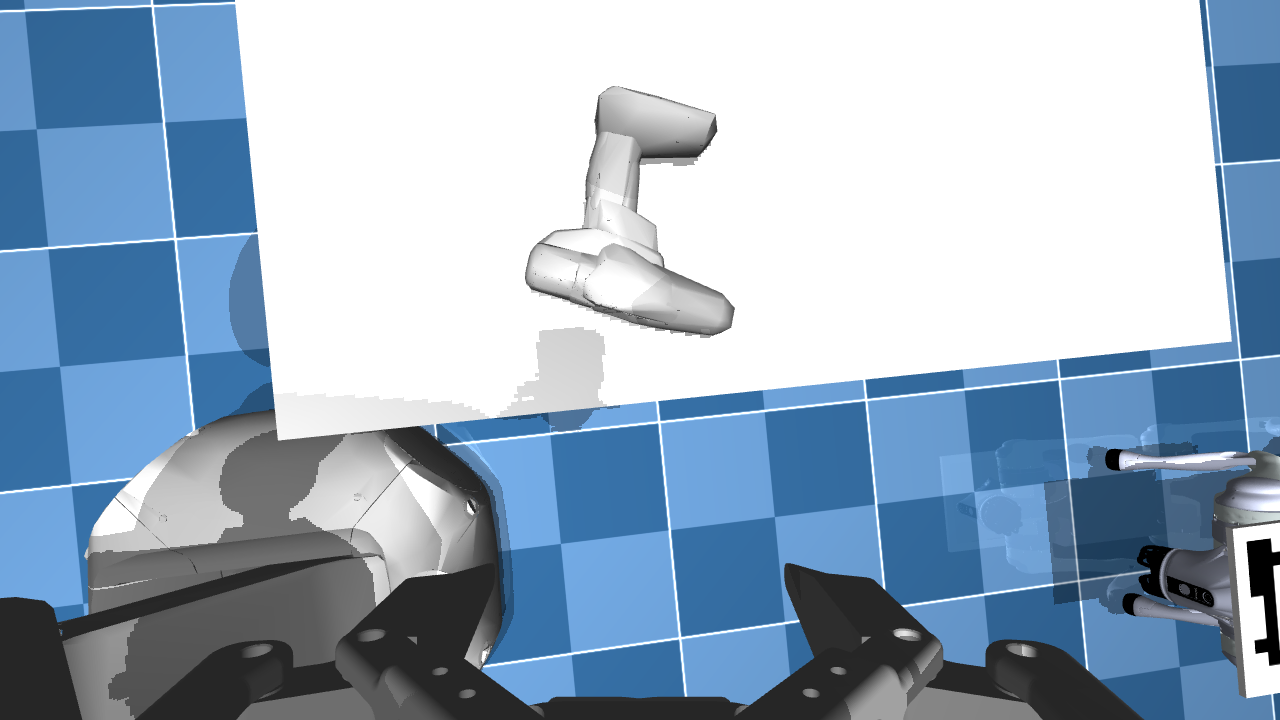
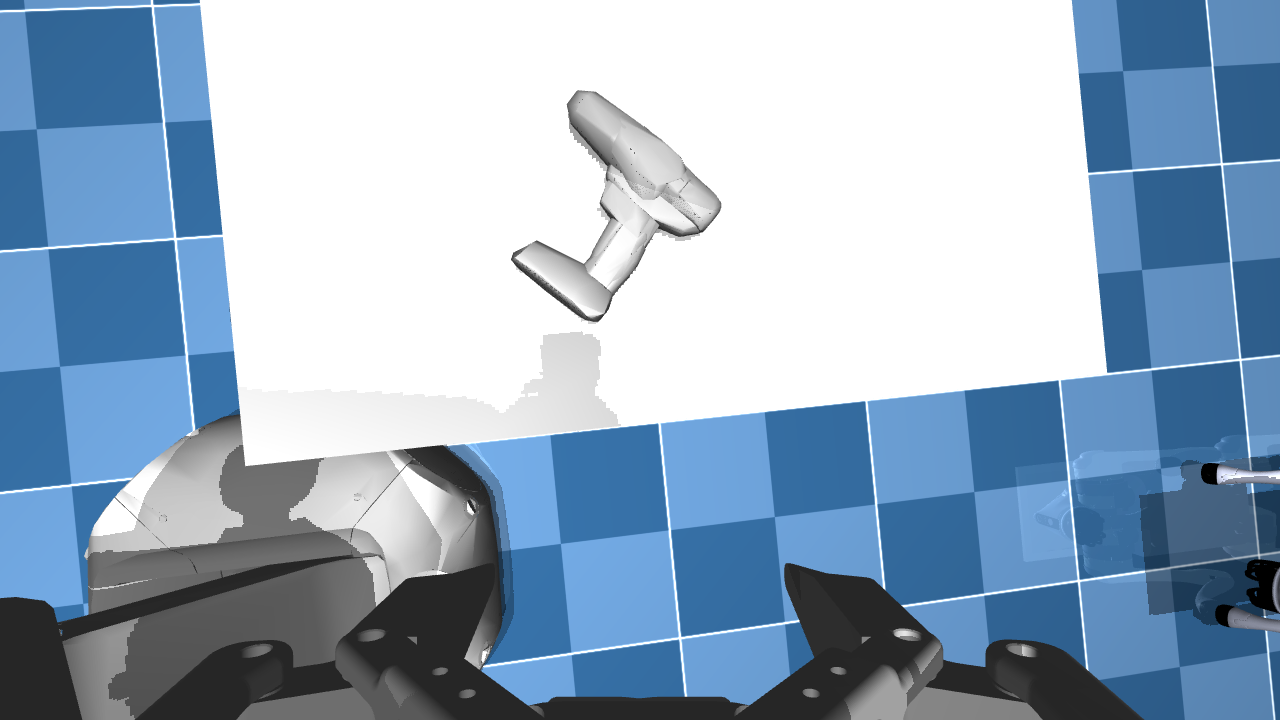
✨ feat: grasp_plan

Changed region(s): [[0.1562, 0.0, 0.9688, 0.6722], [0.8125, 0.5806, 1.0, 0.9778], [0.4062, 0.1222, 0.5938, 0.4889]]

diff --git a/main.py b/main.py
@@ -104,8 +104,43 @@ def plan_grasp(env: WrapperEnv, grasp: Grasp, grasp_config, *args, **kwargs) -> 
 
     traj_reach = []
     traj_lift = []
-    succ = False
-    if not succ: return None
+
+    _, depth = env.humanoid_robot_cfg.gripper_width_to_angle_depth(grasp.width)
+    grasp_trans = grasp.trans - depth * grasp.rot[:, 0]
+    succ, grasp_arm_qpos = env.humanoid_robot_model.ik(grasp_trans, grasp.rot)
+    if not succ:
+        return None
+
+    traj_reach = [grasp_arm_qpos]
+    traj_lift = [grasp_arm_qpos]
+
+    cur_trans, cur_rot, cur_qpos = (
+        grasp_trans.copy(),
+        grasp.rot.copy(),
+        grasp_arm_qpos.copy(),
+    )
+    for _ in range(reach_steps):
+        cur_trans = cur_trans - delta_dist * cur_rot[:, 0]
+        succ, cur_qpos = env.humanoid_robot_model.ik(
+            cur_trans, cur_rot, cur_qpos, delta_thresh=0.5
+        )
+        if not succ:
+            return None
+        traj_reach = [cur_qpos] + traj_reach
+
+    cur_trans, cur_rot, cur_qpos = (
+        grasp_trans.copy(),
+        grasp.rot.copy(),
+        grasp_arm_qpos.copy(),
+    )
+    for _ in range(lift_steps):
+        cur_trans[2] += delta_dist
+        succ, cur_qpos = env.humanoid_robot_model.ik(
+            cur_trans, cur_rot, cur_qpos, delta_thresh=0.5
+        )
+        if not succ:
+            return None
+        traj_lift.append(cur_qpos)
 
     return [np.array(traj_reach), np.array(traj_lift)]
 
@@ -202,13 +237,17 @@ def main():
     observing_qpos = humanoid_init_qpos + np.array([-0.2,-0.1,0.3,0,0.1,0.3,0]) # you can customize observing qpos to get wrist obs
     # observing_qpos = humanoid_init_qpos + np.array([0, -0.1, 0, 0, 0, 0, 0]) # you can customize observing qpos to get wrist obs
     
+    
     init_plan = plan_move_qpos(humanoid_init_qpos, observing_qpos, steps = 50)
     execute_plan(env, init_plan)
     
-    obs_head = env.get_obs(camera_id=0) # head camera
-    obs_wrist = env.get_obs(camera_id=1) # wrist camera
-    env.debug_save_obs(obs_head, 'data/obs_head')
-    env.debug_save_obs(obs_wrist, 'data/obs_wrist')
+    # eef = env.humanoid_robot_model.fk_eef(observing_qpos)
+    # print(eef)
+    
+    # obs_head = env.get_obs(camera_id=0) # head camera
+    # obs_wrist = env.get_obs(camera_id=1) # wrist camera
+    # env.debug_save_obs(obs_head, 'data/obs_head')
+    # env.debug_save_obs(obs_wrist, 'data/obs_wrist')
     
     input("Press Enter to start the simulation...")
     
@@ -270,7 +309,7 @@ def main():
             
             if move_head:
                 # if you need moving head to track the marker, implement this
-                head_qpos = [0,0.6]
+                head_qpos = [0, 0.6]
                 env.step_env(
                     humanoid_head_qpos=head_qpos,
                     quad_command=quad_command
@@ -295,7 +334,8 @@ def main():
         obs_wrist = env.get_obs(camera_id=1) # wrist camera
         rgb, depth, camera_pose = obs_wrist.rgb, obs_wrist.depth, obs_wrist.camera_pose
         wrist_camera_matrix = env.sim.humanoid_robot_cfg.camera_cfg[1].intrinsics
-        driller_pose = detect_driller_pose(rgb, depth, wrist_camera_matrix, camera_pose, pose_est_model)
+        # driller_pose = detect_driller_pose(rgb, depth, wrist_camera_matrix, camera_pose, pose_est_model)
+        driller_pose = env.get_driller_pose()
         # metric judgement
         Metric['obj_pose'] = env.metric_obj_pose(driller_pose)
         
@@ -307,21 +347,36 @@ def main():
     # --------------------------------------step 3: plan grasp and lift------------------------------------------------------
     if not DISABLE_GRASP:
         obj_pose = driller_pose.copy()
+        # print(obj_pose)
         grasps = get_grasps(args.obj) 
         grasps0_n = Grasp(grasps[0].trans, grasps[0].rot @ np.diag([-1,-1,1]), grasps[0].width)
         grasps2_n = Grasp(grasps[2].trans, grasps[2].rot @ np.diag([-1,-1,1]), grasps[2].width)
-        valid_grasps = [grasps[0], grasps0_n, grasps[2], grasps2_n] # we have provided some grasps, you can choose to use them or yours
+        valid_grasps = grasps # we have provided some grasps, you can choose to use them or yours
         grasp_config = dict( 
-            reach_steps=0,
-            lift_steps=0,
-            delta_dist=0, 
+            reach_steps=50,
+            lift_steps=50,
+            delta_dist=0.002, 
         ) # the grasping design in assignment 2, you can choose to use it or design yours
 
         for obj_frame_grasp in valid_grasps:
+            trans=obj_pose[:3, :3] @ obj_frame_grasp.trans + obj_pose[:3, 3]
+            rot=obj_pose[:3, :3] @ obj_frame_grasp.rot
+            rot_x = -1 if rot[0, 1] < 0 else 1
+            rot_y = -1 if rot[1, 2] < 0 else 1
+            rot_z = -1 if rot[2, 0] < 0 else 1
+            R_in = np.array([[0, rot_x, 0], [0, 0 , rot_y], [rot_z, 0, 0]])
+            R_target = np.array([
+                [ 0, -1,  0],
+                [ 0,  0,  1],
+                [-1,  0,  0]
+            ])
+            M = R_in.T @ R_target
+            rot = rot @ M
+            
+            trans[1] += 0.005
             robot_frame_grasp = Grasp(
-                trans=obj_pose[:3, :3] @ obj_frame_grasp.trans
-                + obj_pose[:3, 3],
-                rot=obj_pose[:3, :3] @ obj_frame_grasp.rot,
+                trans=trans,
+                rot=rot,
                 width=obj_frame_grasp.width,
             )
             grasp_plan = plan_grasp(env, robot_frame_grasp, grasp_config)
@@ -332,8 +387,9 @@ def main():
             env.close()
             return
         reach_plan, lift_plan = grasp_plan
+        
 
-        pregrasp_plan = plan_move_qpos(env, observing_qpos, reach_plan[0], steps=50) # pregrasp, change if you want
+        pregrasp_plan = plan_move_qpos(observing_qpos, reach_plan[0], steps=200) # pregrasp, change if you want
         execute_plan(env, pregrasp_plan)
         open_gripper(env)
         execute_plan(env, reach_plan)

diff --git a/src/sim/combined_sim.py b/src/sim/combined_sim.py
@@ -264,8 +264,8 @@ class CombinedSim:
             seg=dict(segmentation=True),
         )
         if camera_pose is not None:
-            if camera_id == 0:
-                print(camera_pose)
+            # if camera_id == 0:
+            #     print(camera_pose)
             trans = camera_pose[:3, 3].copy()
             self.mj_data.mocap_pos[self.camera_mocap_ids[camera_id]] = trans
             quat = mat2quat(camera_pose[:3, :3].dot(np.diag([1,-1,-1])))
